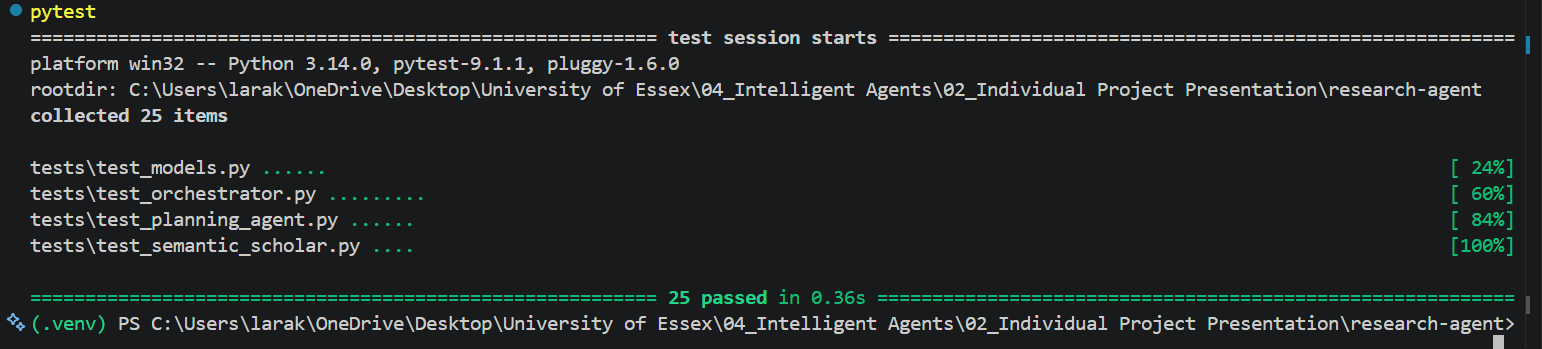
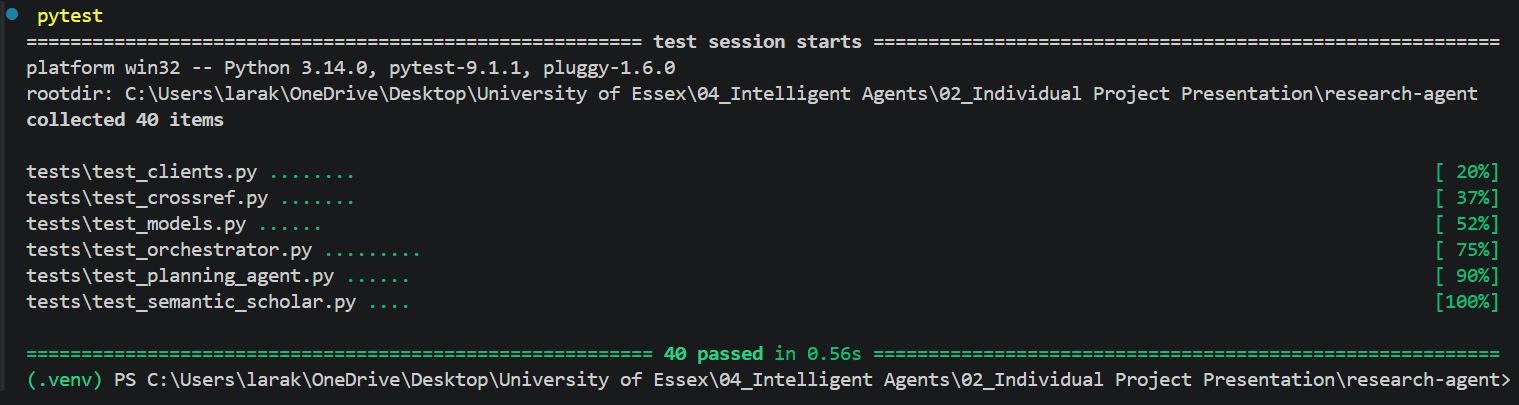
Add tests for Crossref outcomes, retry policy and cache behaviour

diff --git a/tests/test_clients.py b/tests/test_clients.py
@@ -1,0 +1,224 @@
+"""
+Tests for the shared HTTP client.
+
+These exist because the retry policy once became silently detached from the
+function it governed: a class definition inserted between the decorator and
+its function left the decorator applied to the class, so every request was
+issued with no retry at all. The file compiled and the whole suite passed. A
+mechanism whose absence resembles success needs a test that fails when it is
+absent.
+
+requests.request is replaced rather than the client's own functions, so the
+retry policy, the error classification and the caching decision are all
+exercised as written.
+"""
+
+import pytest
+
+from src import cache, clients
+
+
+class FakeResponse:
+    """Stands in for a requests.Response, with only the members used here."""
+
+    def __init__(self, status_code: int, body: dict | None = None, text: str = ""):
+        self.status_code = status_code
+        self._body = body or {}
+        self.text = text or "{}"
+        self.headers: dict[str, str] = {}
+
+    def json(self) -> dict:
+        return self._body
+
+
+@pytest.fixture(autouse=True)
+def no_pacing_or_caching(monkeypatch, tmp_path):
+    """
+    Remove the behaviours that would make these tests slow or unreliable.
+
+    Pacing and backoff would otherwise add real seconds per attempt. An
+    earlier version of this fixture replaced the module-level wait policy,
+    which had no effect: tenacity captures the policy when the decorator runs
+    at import time, so the module attribute is no longer what governs the
+    wait. The suite still passed, but took thirty-two seconds rather than a
+    fraction of one. The sleep is therefore replaced on the retry object the
+    decorator attached to the function, which the per-call copy inherits.
+
+    The cache is redirected to a temporary directory rather than switched off,
+    so a test run can neither read the working cache nor write into it.
+    """
+    monkeypatch.setattr(clients.RateLimiter, "wait", lambda self: None)
+    monkeypatch.setattr(clients.request.retry, "sleep", lambda seconds: None)
+    monkeypatch.setattr(cache, "CACHE_DIR", tmp_path / "cache")
+
+
+def test_a_retryable_failure_is_retried_until_it_succeeds(monkeypatch):
+    """
+    The test the detached decorator would have failed. A single 503 followed
+    by a success must produce a success, which is only possible if a second
+    attempt is made.
+    """
+    responses = [FakeResponse(503), FakeResponse(200, {"ok": True})]
+    attempts = []
+
+    def fake_request(method, url, **kwargs):
+        attempts.append(method)
+        return responses.pop(0)
+
+    monkeypatch.setattr(clients.requests, "request", fake_request)
+
+    response = clients.get("https://example.test/thing", clients.crossref_limiter)
+
+    assert response.status_code == 200
+    assert len(attempts) == 2
+
+
+def test_retrying_stops_after_the_attempt_limit(monkeypatch):
+    """
+    A policy that never gives up would hang a run against a service that is
+    down. Six attempts, then the original failure is surfaced rather than
+    tenacity's own wrapper, so the caller learns what actually failed.
+    """
+    attempts = []
+
+    def always_503(method, url, **kwargs):
+        attempts.append(method)
+        return FakeResponse(503)
+
+    monkeypatch.setattr(clients.requests, "request", always_503)
+
+    with pytest.raises(clients.RetryableHTTPError, match="503"):
+        clients.get("https://example.test/thing", clients.crossref_limiter)
+
+    assert len(attempts) == 6
+
+
+def test_a_terminal_failure_is_not_retried(monkeypatch):
+    """
+    Repeating a refused request cannot change its outcome. A 403 is returned
+    for the caller to interpret rather than retried, and the caller's ability
+    to tell a 403 from a 200 is what the retrieval stage depends on.
+    """
+    attempts = []
+
+    def forbidden(method, url, **kwargs):
+        attempts.append(method)
+        return FakeResponse(403, text='{"message":"Forbidden"}')
+
+    monkeypatch.setattr(clients.requests, "request", forbidden)
+
+    response = clients.get("https://example.test/thing", clients.crossref_limiter)
+
+    assert response.status_code == 403
+    assert len(attempts) == 1
+
+
+def test_a_quota_failure_is_not_retried(monkeypatch):
+    """
+    A quota 429 and a rate-limit 429 share a status code and mean different
+    things. Retrying an exhausted allowance fails every attempt and spends
+    each one against the very limit that is exhausted, which is how a project
+    limited to twenty requests a day recorded twenty-one.
+    """
+    attempts = []
+
+    def quota_exceeded(method, url, **kwargs):
+        attempts.append(method)
+        return FakeResponse(429, text='{"error":{"status":"RESOURCE_EXHAUSTED"}}')
+
+    monkeypatch.setattr(clients.requests, "request", quota_exceeded)
+
+    with pytest.raises(clients.QuotaExhaustedError):
+        clients.get("https://example.test/thing", clients.crossref_limiter)
+
+    assert len(attempts) == 1
+
+
+def test_a_rate_limit_without_quota_wording_is_retried(monkeypatch):
+    """
+    The counterpart to the test above, and the reason the distinction is worth
+    making rather than treating every 429 as terminal. Semantic Scholar's
+    rate-limit response names no quota, and recovering from it is what allows
+    a run to continue through ordinary congestion.
+    """
+    responses = [
+        FakeResponse(429, text='{"message":"Too Many Requests","code":"429"}'),
+        FakeResponse(200, {"ok": True}),
+    ]
+    attempts = []
+
+    def rate_limited_then_ok(method, url, **kwargs):
+        attempts.append(method)
+        return responses.pop(0)
+
+    monkeypatch.setattr(clients.requests, "request", rate_limited_then_ok)
+
+    response = clients.get("https://example.test/thing", clients.crossref_limiter)
+
+    assert response.status_code == 200
+    assert len(attempts) == 2
+
+
+def test_a_cached_response_is_returned_without_a_request(monkeypatch):
+    """
+    A cache hit must not reach the network. Asserting that no request was made
+    is the point: a cache that fetched anyway would still return the right
+    answer while conserving nothing, which is the only thing it exists to do.
+    """
+    attempts = []
+
+    def count_and_succeed(method, url, **kwargs):
+        attempts.append(method)
+        return FakeResponse(200, {"value": 1})
+
+    monkeypatch.setattr(clients.requests, "request", count_and_succeed)
+
+    url = "https://example.test/cacheable"
+    first = clients.get(url, clients.crossref_limiter, params={"query": "x"})
+    second = clients.get(url, clients.crossref_limiter, params={"query": "x"})
+
+    assert len(attempts) == 1
+    assert first.json() == second.json()
+
+
+def test_a_bypassed_request_still_refreshes_the_cache(monkeypatch):
+    """
+    use_cache governs reading, not writing. Bypassing the cache is a request
+    for current data, so it would be perverse for it to leave an older entry
+    in place for the next cached run to serve.
+    """
+    bodies = [{"value": 1}, {"value": 2}]
+
+    def changing(method, url, **kwargs):
+        return FakeResponse(200, bodies.pop(0))
+
+    monkeypatch.setattr(clients.requests, "request", changing)
+
+    url = "https://example.test/refresh"
+    clients.get(url, clients.crossref_limiter, params={"query": "x"})
+    clients.get(url, clients.crossref_limiter, params={"query": "x"}, use_cache=False)
+
+    # Reads from the cache now, and must see what the bypassed request stored.
+    third = clients.get(url, clients.crossref_limiter, params={"query": "x"})
+    assert third.json() == {"value": 2}
+
+
+def test_a_failed_response_is_not_cached(monkeypatch):
+    """
+    Storing a failure would serve it back for the life of the entry, turning a
+    transient fault into a persistent one and defeating the retry layer built
+    to absorb it.
+    """
+    attempts = []
+
+    def forbidden(method, url, **kwargs):
+        attempts.append(method)
+        return FakeResponse(403, text='{"message":"Forbidden"}')
+
+    monkeypatch.setattr(clients.requests, "request", forbidden)
+
+    url = "https://example.test/forbidden"
+    clients.get(url, clients.crossref_limiter, params={"query": "x"})
+    clients.get(url, clients.crossref_limiter, params={"query": "x"})
+
+    assert len(attempts) == 2

diff --git a/tests/test_crossref.py b/tests/test_crossref.py
@@ -1,0 +1,150 @@
+"""
+Tests for Crossref validation.
+
+The HTTP call is replaced rather than made, so the five outcomes can each be
+exercised deliberately. Several are otherwise hard or impossible to produce on
+demand: a Crossref record with no title, or a title that disagrees with the
+retrieved one, cannot be conjured from the live service.
+
+What is patched is crossref.get, not clients.get: this module imports the
+function into its own namespace, so replacing it where it is defined would
+leave the reference pointing at the real one.
+"""
+
+from src import crossref
+from src.models import Paper
+
+
+class FakeResponse:
+    """
+    Stands in for a requests.Response.
+
+    Only the three members crossref.verify touches are provided. A fuller
+    imitation would suggest the tests depend on more of the interface than
+    they do.
+    """
+
+    def __init__(self, status_code: int, body: dict | None = None):
+        self.status_code = status_code
+        self._body = body or {}
+
+    def json(self) -> dict:
+        return self._body
+
+    def raise_for_status(self) -> None:
+        """Never raises: these tests supply only statuses verify handles."""
+
+
+def _crossref_body(title: str) -> dict:
+    """A Crossref works response, with the title nested as that API returns it."""
+    return {"message": {"title": [title]}}
+
+
+def test_matching_title_verifies_the_doi(monkeypatch):
+    """
+    The DOI resolves and the registered title agrees, which is the only
+    outcome that sets doi_verified.
+    """
+    monkeypatch.setattr(
+        crossref, "get", lambda *a, **k: FakeResponse(200, _crossref_body("A Paper"))
+    )
+
+    result = crossref.verify(Paper(title="A Paper", doi="10.1/x"))
+
+    assert result.doi_verified is True
+    assert result.verification_note is None
+
+
+def test_punctuation_and_case_differences_still_verify(monkeypatch):
+    """
+    Sources differ typographically for the same work. Comparing raw strings
+    would report a mismatch that is purely a matter of punctuation, and a
+    mismatch is the same flag as a genuinely wrong title.
+    """
+    monkeypatch.setattr(
+        crossref,
+        "get",
+        lambda *a, **k: FakeResponse(200, _crossref_body("A Paper: Revisited!")),
+    )
+
+    result = crossref.verify(Paper(title="a paper revisited", doi="10.1/x"))
+
+    assert result.doi_verified is True
+
+
+def test_disagreeing_title_does_not_verify(monkeypatch):
+    """
+    A registered title that differs is recorded rather than treated as a
+    match. This is the check that would catch a mistaken or fabricated DOI,
+    which is what the design proposal asks validation to guard against.
+    """
+    monkeypatch.setattr(
+        crossref,
+        "get",
+        lambda *a, **k: FakeResponse(200, _crossref_body("An Entirely Different Paper")),
+    )
+
+    result = crossref.verify(Paper(title="A Paper", doi="10.1/x"))
+
+    assert result.doi_verified is False
+    assert "disagrees" in result.verification_note
+
+
+def test_arxiv_doi_is_recorded_as_a_preprint(monkeypatch):
+    """
+    arXiv registers with DataCite, so Crossref returns 404 however valid the
+    DOI is. Recording the reason separates an ordinary preprint from a DOI
+    Crossref rejected, which matters because preprints are a large share of
+    results in this field.
+    """
+    monkeypatch.setattr(crossref, "get", lambda *a, **k: FakeResponse(404))
+
+    result = crossref.verify(Paper(title="A Preprint", doi="10.48550/arxiv.2503.13657"))
+
+    assert result.doi_verified is False
+    assert "preprint" in result.verification_note
+
+
+def test_unregistered_doi_is_distinguished_from_a_preprint(monkeypatch):
+    """
+    The same 404 means something different for a non-arXiv DOI: Crossref
+    should hold it and does not. Both are unverified, and the Evaluation Agent
+    needs to weigh them differently.
+    """
+    monkeypatch.setattr(crossref, "get", lambda *a, **k: FakeResponse(404))
+
+    result = crossref.verify(Paper(title="A Paper", doi="10.9999/nonexistent"))
+
+    assert "not registered" in result.verification_note
+    assert "preprint" not in result.verification_note
+
+
+def test_record_without_a_doi_is_not_requested(monkeypatch):
+    """
+    A record with no DOI cannot be validated by any means, so no request is
+    made. Asserting that nothing was called matters: issuing a request for an
+    empty DOI would spend quota to receive a certain failure.
+    """
+    called = []
+    monkeypatch.setattr(crossref, "get", lambda *a, **k: called.append(1))
+
+    result = crossref.verify(Paper(title="No DOI Here"))
+
+    assert called == []
+    assert result.verification_note == "no DOI in record"
+
+
+def test_crossref_record_with_no_title_does_not_verify(monkeypatch):
+    """
+    A response carrying no title leaves nothing to compare against. Treating
+    that as a match would verify a DOI on the strength of a record that says
+    nothing about it.
+    """
+    monkeypatch.setattr(
+        crossref, "get", lambda *a, **k: FakeResponse(200, {"message": {}})
+    )
+
+    result = crossref.verify(Paper(title="A Paper", doi="10.1/x"))
+
+    assert result.doi_verified is False
+    assert "no title" in result.verification_note

diff --git a/evidence/README.md b/evidence/README.md
@@ -35,4 +35,4 @@ covered by unit tests rather than by contrived captures.
 | 22_stage3_retrieval_and_live_deduplication.png | Retrieval across three approved sub-questions, each meeting the record threshold of three, followed by deduplication removing one paper that had been retrieved under two different queries. The first live run in which deduplication removed anything, having previously been evidenced only by unit tests. Validation and storage completed in the same run and are recorded in run.log |
 | 23a / 23b_stage3_threshold_and_coverage.png | The record threshold and its single reformulation, exercised by requesting two records per search against a threshold of three rather than by altering the threshold. 23a: an unmet threshold prompts the Planning Agent to reformulate the query, the search is repeated, and the original result is kept because the new query returned no more records. 23b: all three sub-questions remain below the threshold after their one permitted retry, and insufficient coverage is flagged for the researcher rather than the run being abandoned |
 | 24_stage2_response_cache_hit_and_bypass.png | The response cache and its bypass, on the same query seconds apart. The first run returns from disk in two milliseconds, logged as a cache hit with its age and the query, and stating explicitly that it was not a live request. The second, with the cache bypassed, issues a live request that is rate limited and recovered by retry. A cached run and a live run are therefore distinguishable in the log, which is what allows the cache to be used during development without misrepresenting a run as live |
-| 25_stage3_test_suite_with_substituted_calls.png | The unit test suite after adding the Planning Agent and orchestrator retrieval tests, all running without network access by substituting the LLM and retrieval calls. Covers the mapping from a provider response to sub-questions, feedback reaching the revision prompt, the record threshold counting usable rather than retrieved records, the one-retry limit, and refusal to retrieve unapproved sub-questions |
+| 25_stage3_test_suite_with_substituted_calls.png | The unit test suite, running without network access by substituting the LLM, retrieval and HTTP calls. Covers the mapping from a provider response to sub-questions, feedback reaching the revision prompt, the record threshold counting usable rather than retrieved records, the one-retry limit, refusal to retrieve unapproved sub-questions, all five Crossref outcomes, and the retry policy's behaviour on retryable, terminal and quota failures. Several of these conditions cannot be produced on demand from the live services |
